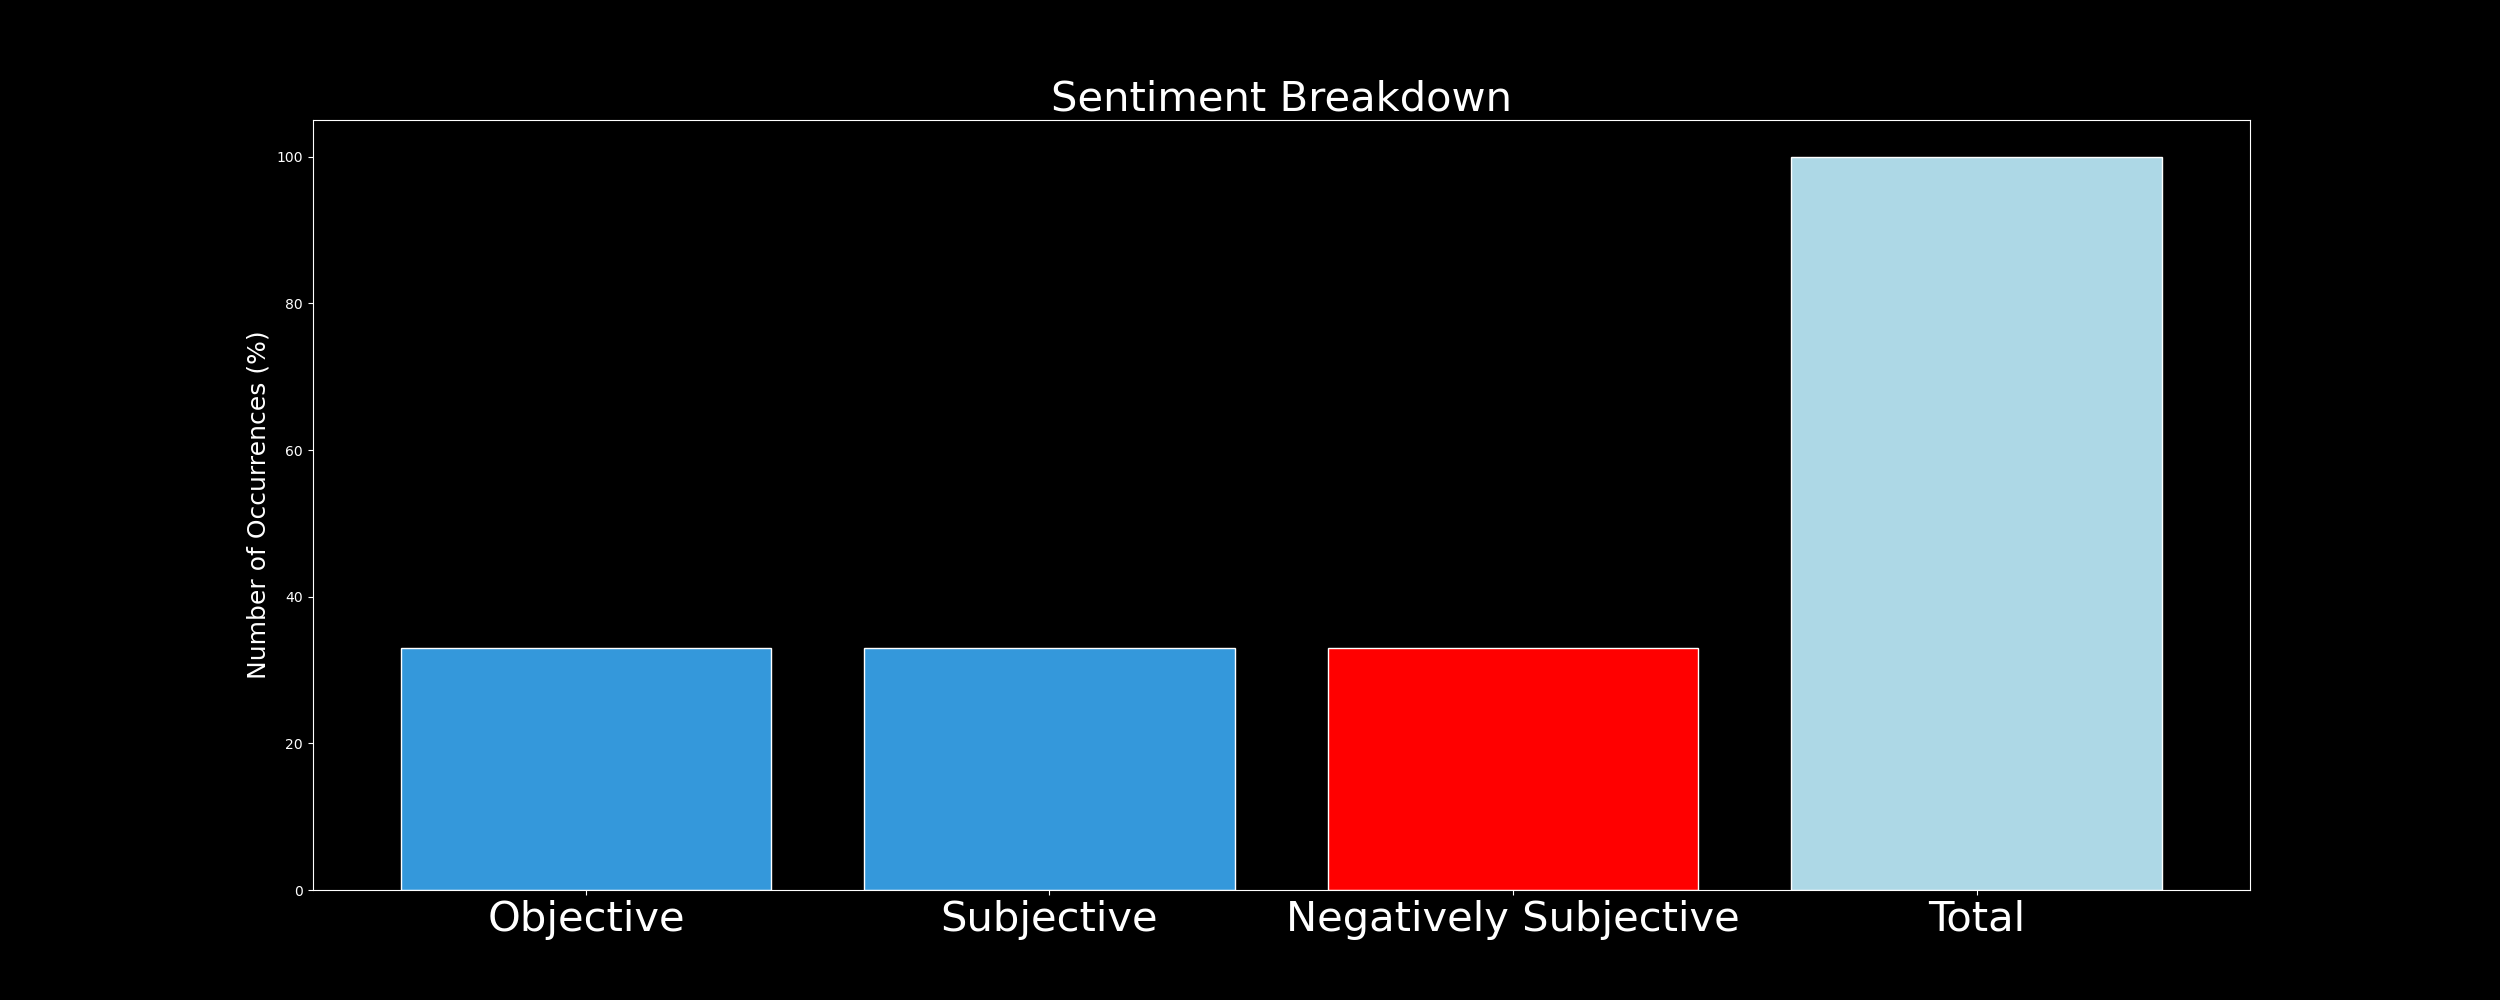
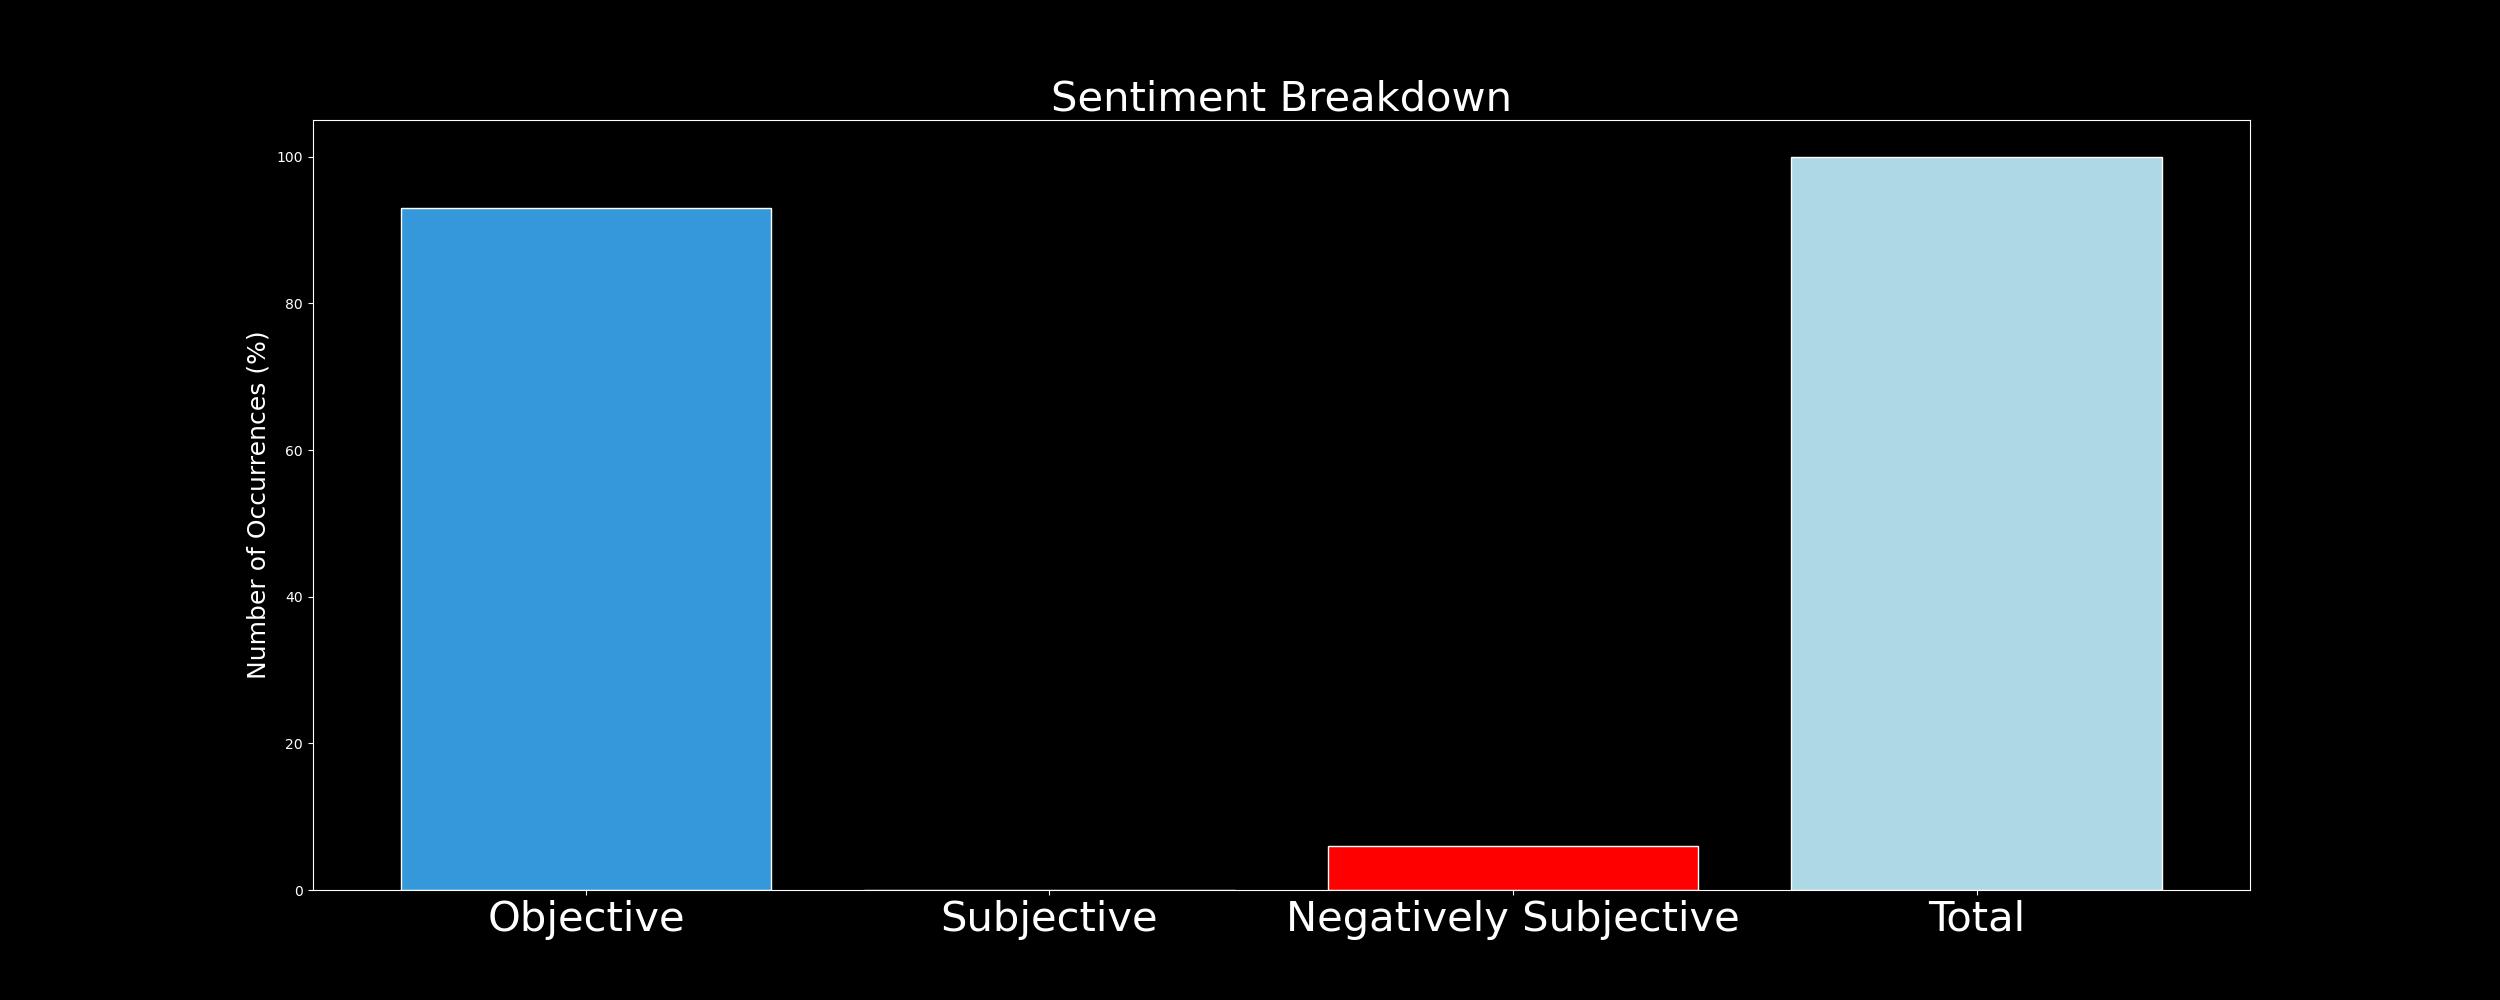
Next increment

Changed region(s): [[0.156, 0.186, 0.312, 0.651], [0.3432, 0.62, 0.4992, 0.899], [0.5304, 0.62, 0.6864, 0.868]]

diff --git a/darkwire/assets/threatintel/tweet1.html b/darkwire/assets/threatintel/tweet1.html
@@ -3,9 +3,9 @@
 			related tweet</i><br></br>  
 		<div id="quote"><center>
 <b style = "font-size:140%;color:silver"> 
-			LockBit 3.0 Ransomware Victim: agriobtentions[.]com - https://t.co/vqHngEMkss
+			RT @RedPacketSec: LockBit 3.0 Ransomware Victim: jka[.]co[.]uk - https://t.co/rKmwxyC9YB
 
-#LockBit 3.0 #Ransomware #OSINT #ThreatIntel #darkweb #TOR
+#LockBit 3.0 #Ransomware #OSINT #ThreatIntel #dar…
 </b>
 </center>
 </div>

diff --git a/darkwire/assets/threatintel/tweet2.html b/darkwire/assets/threatintel/tweet2.html
@@ -3,7 +3,9 @@
 			related tweet</i><br></br>  
 		<div id="quote"><center>
 <b style = "font-size:140%;color:silver"> 
-			#LinkedIn is known for facilitating communication among individuals from various backgrounds across industries. How… https://t.co/BSLSNdmUET
+			Cobalt Stike Beacon Detected - 101[.]43[.]108[.]171:8080 - https://t.co/RjpACixUPk
+
+#CobaltStrikeBeaconDetected #OSINT #ThreatIntel
 </b>
 </center>
 </div>

diff --git a/darkwire/assets/threatintel/tweet3.html b/darkwire/assets/threatintel/tweet3.html
@@ -3,9 +3,9 @@
 			related tweet</i><br></br>  
 		<div id="quote"><center>
 <b style = "font-size:140%;color:silver"> 
-			LockBit 3.0 Ransomware Victim: mcft[.]com - https://t.co/Ekoef2BgNb
+			RT @DailyOsint: If you need a website tech identifier,
 
-#LockBit 3.0 #Ransomware #OSINT #ThreatIntel #darkweb #TOR
+This handy #tool, #whatweb, allows you to recognize web technologies, including CMS…
 </b>
 </center>
 </div>

diff --git a/darkwire/assets/threatintel/table1.html b/darkwire/assets/threatintel/table1.html
@@ -57,7 +57,7 @@
 					</td> 
 			  
 					  <td> 
-			0.29% 
+			0.38% 
 					</td> 
 			  
 					</tr>  
@@ -69,7 +69,7 @@
 					</td> 
 			  
 					  <td> 
-			1.82 
+			1.98 
 					</td> 
 			  
 					</tr>  

diff --git a/darkwire/assets/threatintel/updatedDate.html b/darkwire/assets/threatintel/updatedDate.html
@@ -1,1 +1,1 @@
-<p style="color: #FFFFFF; font-size:12px;"> Updated on 2022-12-20 </p>
+<p style="color: #FFFFFF; font-size:12px;"> Updated on 2022-12-21 </p>

diff --git a/darkwire/README.md b/darkwire/README.md
@@ -31,9 +31,9 @@ This is a list of various resources to learn more… https://t.co/xJBmZPIJXe
 
 |                **Sample-Tweets**        |
 | :-------------: |
-| LockBit 3.0 Ransomware Victim: agriobtentions[.]com - https://t.co/vqHngEMkss#LockBit 3.0 #Ransomware #OSINT #ThreatIntel #darkweb #TOR |
-| Royal Ransomware Victim: Leo Hamel Fine Jewelers - https://t.co/BUxLziyShz#Royal #Ransomware #OSINT #ThreatIntel #darkweb #TOR |
-| RT @fletch_ai: Fletch Top Threat Alert: #Azov - Pulling the Curtains on Azov Ransomware: Not a Skidsware but Polymorphic Wiper#FletchScor… |
+| RT @RedPacketSec: LockBit 3.0 Ransomware Victim: jka[.]co[.]uk - https://t.co/rKmwxyC9YB#LockBit 3.0 #Ransomware #OSINT #ThreatIntel #dar… |
+| RT @MISPProject: MISP Training Video December Edition - Best Practices for Encoding Threat Intelligence and Leveraging the information in M… |
+| RT @fancy_4n6: MISP is a large part of my life these days and working with people on threat intel sharing and how to do it. Our @cosiveco C… |
 
 ## RELATED METRICS<br>
 | Metric | Value |
@@ -41,8 +41,8 @@ This is a list of various resources to learn more… https://t.co/xJBmZPIJXe
 | #1 Most tweeted to  | **fr0gger_** |
 | #2 Most tweeted to  | **RedPacketSec** |
 | #3 Most tweeted to  | **DailyCTI** |
-| NewProfiles (less than 10 days) | 0.29%  |
-| Tweeters with < 10 followers  | 1.82%|
+| NewProfiles (less than 10 days) | 0.38%  |
+| Tweeters with < 10 followers  | 1.98%|
 | Tweeters with > 1000000 followers  | 0.0%  |
 
 
@@ -62,12 +62,12 @@ This is a list of various resources to learn more… https://t.co/xJBmZPIJXe
 ## Twitter Bio Analysis![image](assets/threatintel/BIO.png)
 ### SENTIMENT ANALYSIS
 ![image](assets/threatintel/sentiment.png)
-VIEWS WERE : **SUBJECTIVE**  (33.33%) & **NEGATIVELY-SUBJECTIVE** (33.33%) **OBJECTIVE** (33.33%)
+VIEWS WERE : **SUBJECTIVE**  (0.0%) & **NEGATIVELY-SUBJECTIVE** (6.67%) **OBJECTIVE** (93.33%)
 
 ### TWEET SAMPLE 
 | Random value picked from array |
 | ------------- |
-|How do you stay current in #cybersecurity? Why not join me and 200 other people LIVE 🔴 in 5 minutes I'll be del… https://t.co/vcY9dptqS7 |
+|RT @fletch_ai: Fletch Top Threat Alert: #CVE-2022-44698 - Microsoft fixes exploited zero-day, revokes certificate used to sign malicious dr… |
 
 ### MOST RETWEETED 
 
@@ -161,6 +161,48 @@ Document is… https://t.co/zSHmIKfmra
 ## What this user tweeted
  
 Excited to announce we are #OpenForBusiness. Providing courses in Social Engineering, Digital Force Protection, EW-… https://t.co/2OXbLS6htb
+ 
+# li00403382USER INFO
+![image](http://pbs.twimg.com/profile_images/1602055349598842880/sn6slIxl_normal.jpg)
+ 
+`User ScreenName:` li00403382 
+ 
+`User chosen Name:` Simba Security ( simbalion@infosec.exchange ) 
+ 
+`Is the User Verified?:` False 
+ 
+`User signup date?:` Sun Dec 11 21:34:30 +0000 2022 
+ 
+`User Description?:` 사이버 보안 연구원 at a Company | Cyber Security Researcher | кибербезопасность
+북한 | DPRK | Korea  
+Russian | Korean | English
+DM for 네이버|카카오톡|라인|텔레그램|시그널|디지털코인 
+ 
+`Followers?: `1 
+ 
+`Following?:` 43 
+ 
+`User URL?:` None 
+ 
+`Location:` 광명망 
+ 
+`Number of tweets extracted`  : 36 
+ 
+`Profile image:` http://pbs.twimg.com/profile_images/1602055349598842880/sn6slIxl_normal.jpg 
+ 
+`Number of tweets excluding replies:` 36 
+ 
+
+ 
+
+ 
+## User Top tweeted words 
+ 
+**APT** 4 , **DPRK** 4 , **–** 4 , **ATTACK** 3 , **NEW** 3 , **EAI** 3 , **악성** 3 , **KOREA** 3 , **NORTH** 3 , **노동당** 3 , **공업부** 3 , **@CYBERWAR_15:** 3 , **CAMPAIGN** 2 , **REDIS** 2 , **COMMANDER** 2 , **@PTRACESECURITY:** 2 , **PHISHING** 2 , **PENTESTING** 2 , **@NKNEWSORG:** 2 , **US** 2 , 
+ 
+## What this user tweeted
+ 
+RT @nshcthreatrecon: We published Korean version's report "MONTHLY THREAT ACTOR GROUP INTELLIGENCE REPORT, OCTOBER 2022" https://t.co/o1dlM…
  
 
 <b> This report is AUTOMATED and not hand crafted, it is designed for pulling metrics on a given keyword or hashtag and performs a series of reporting and analysis.</b>  
